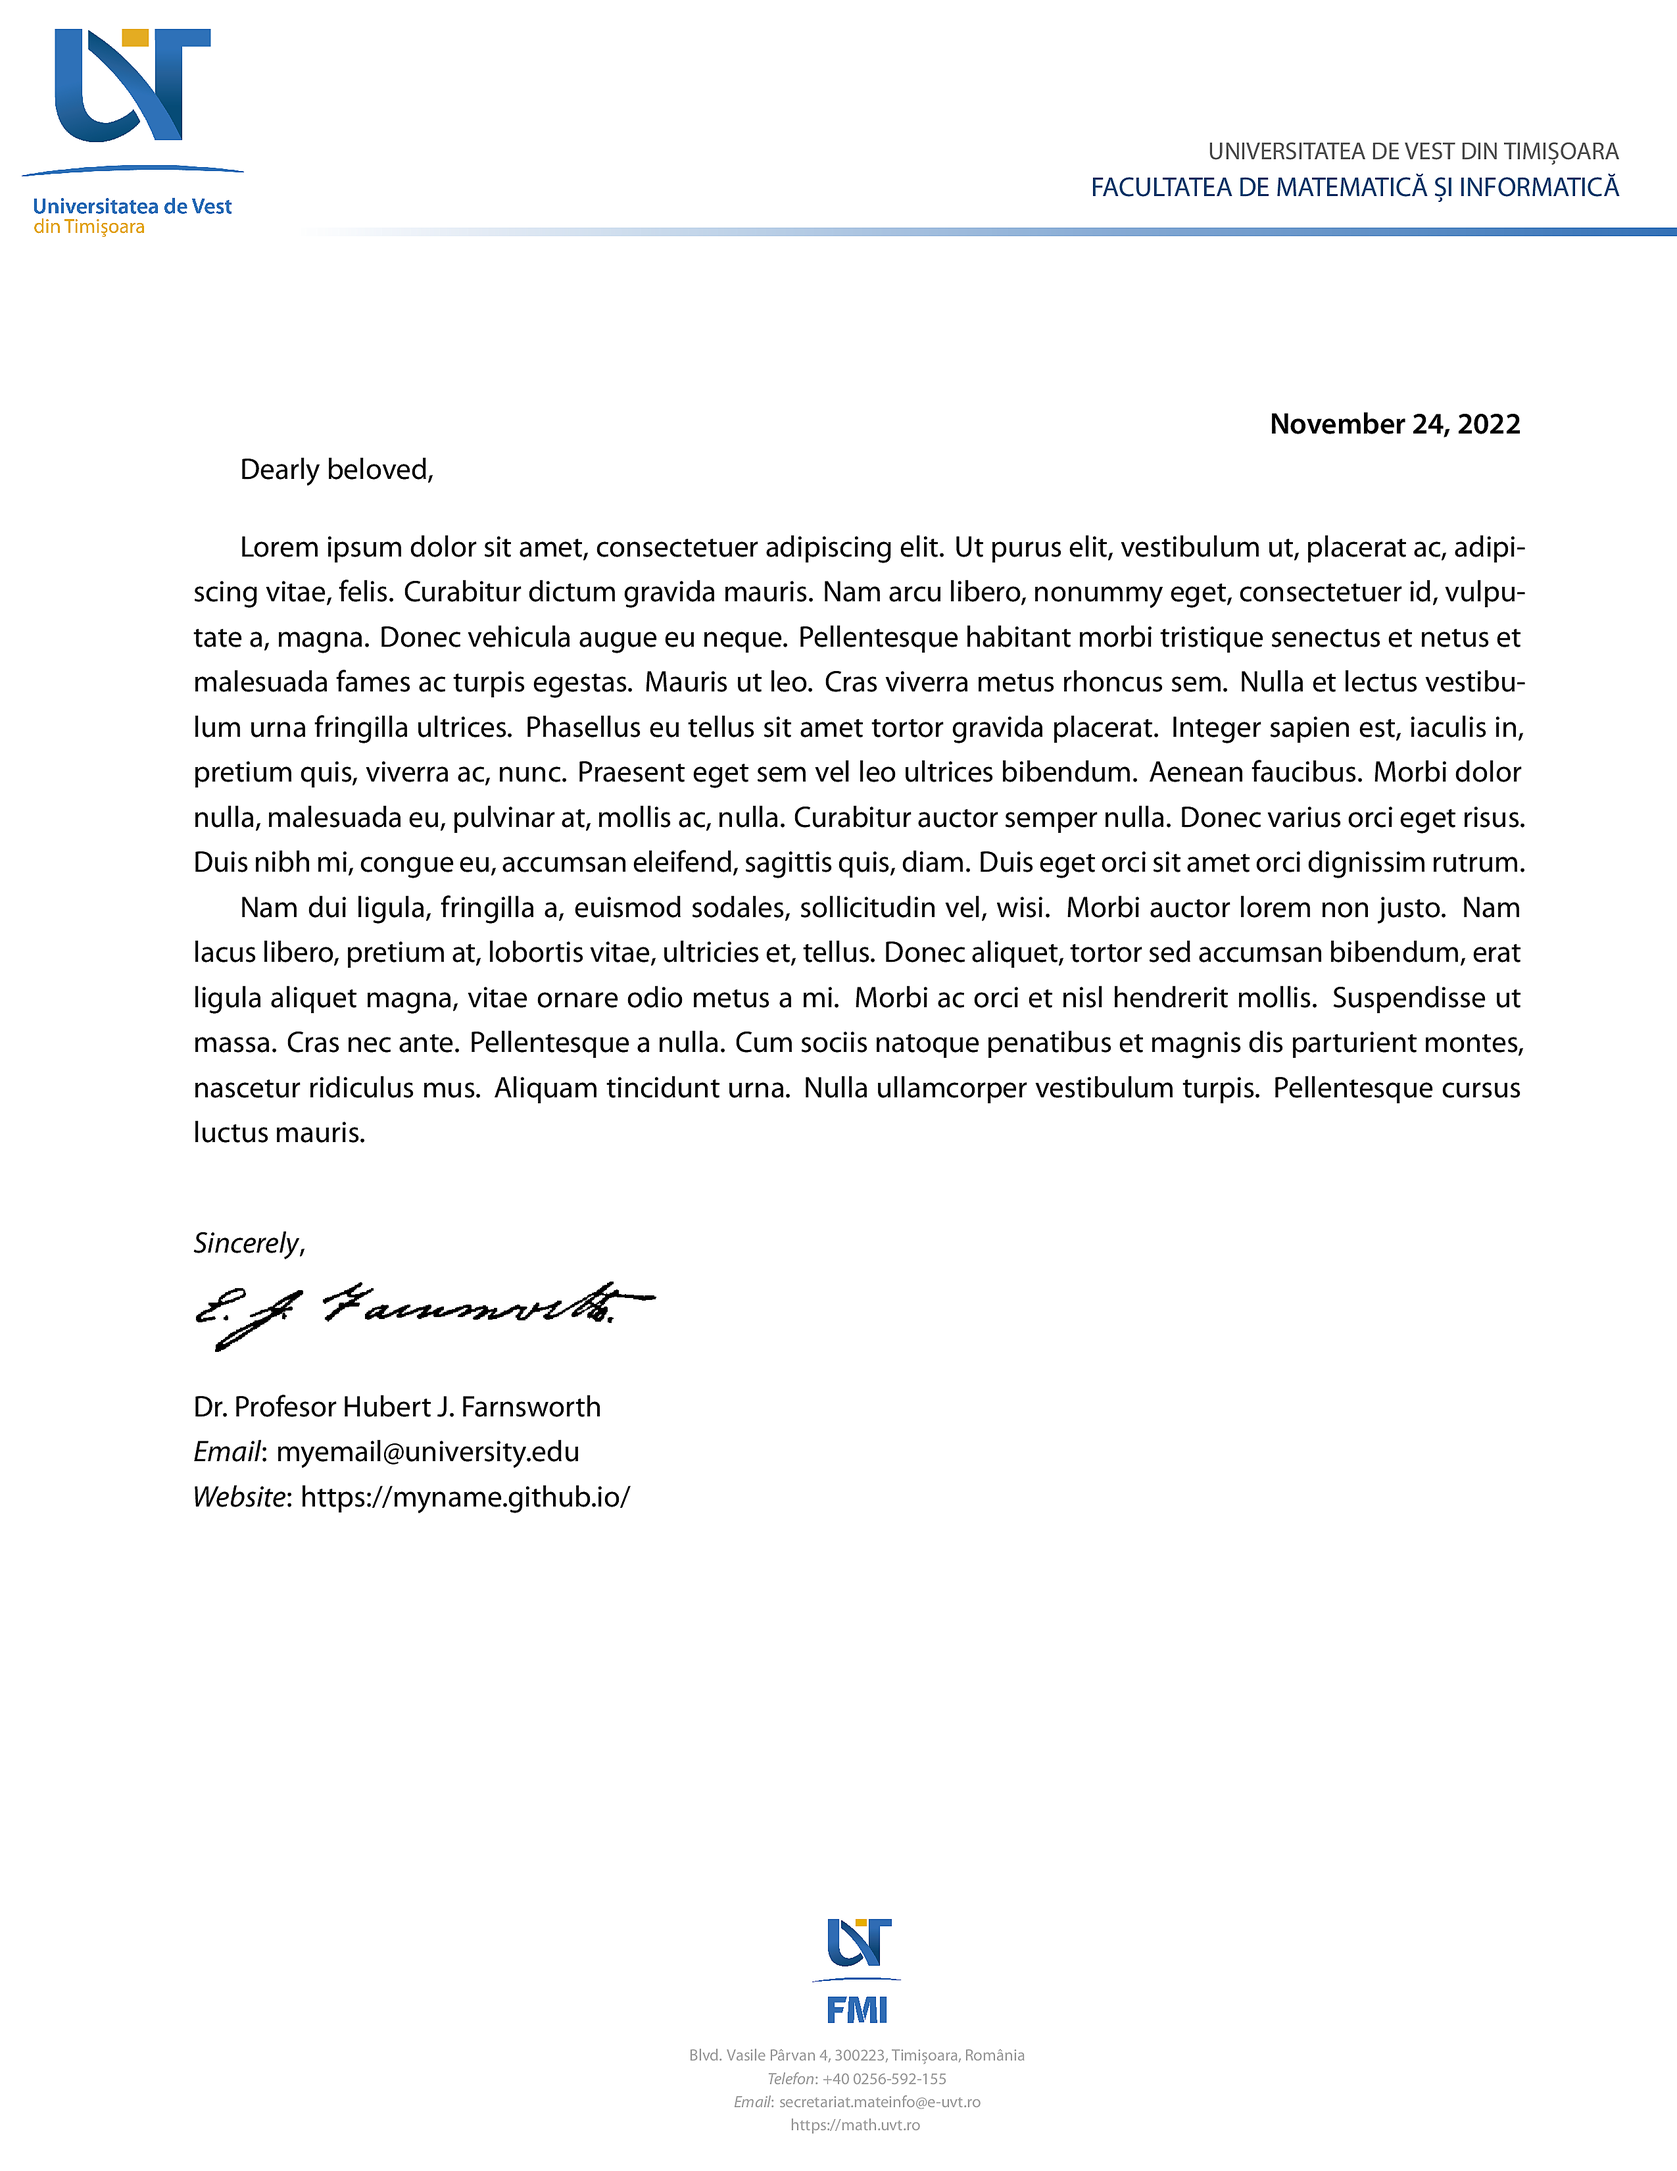
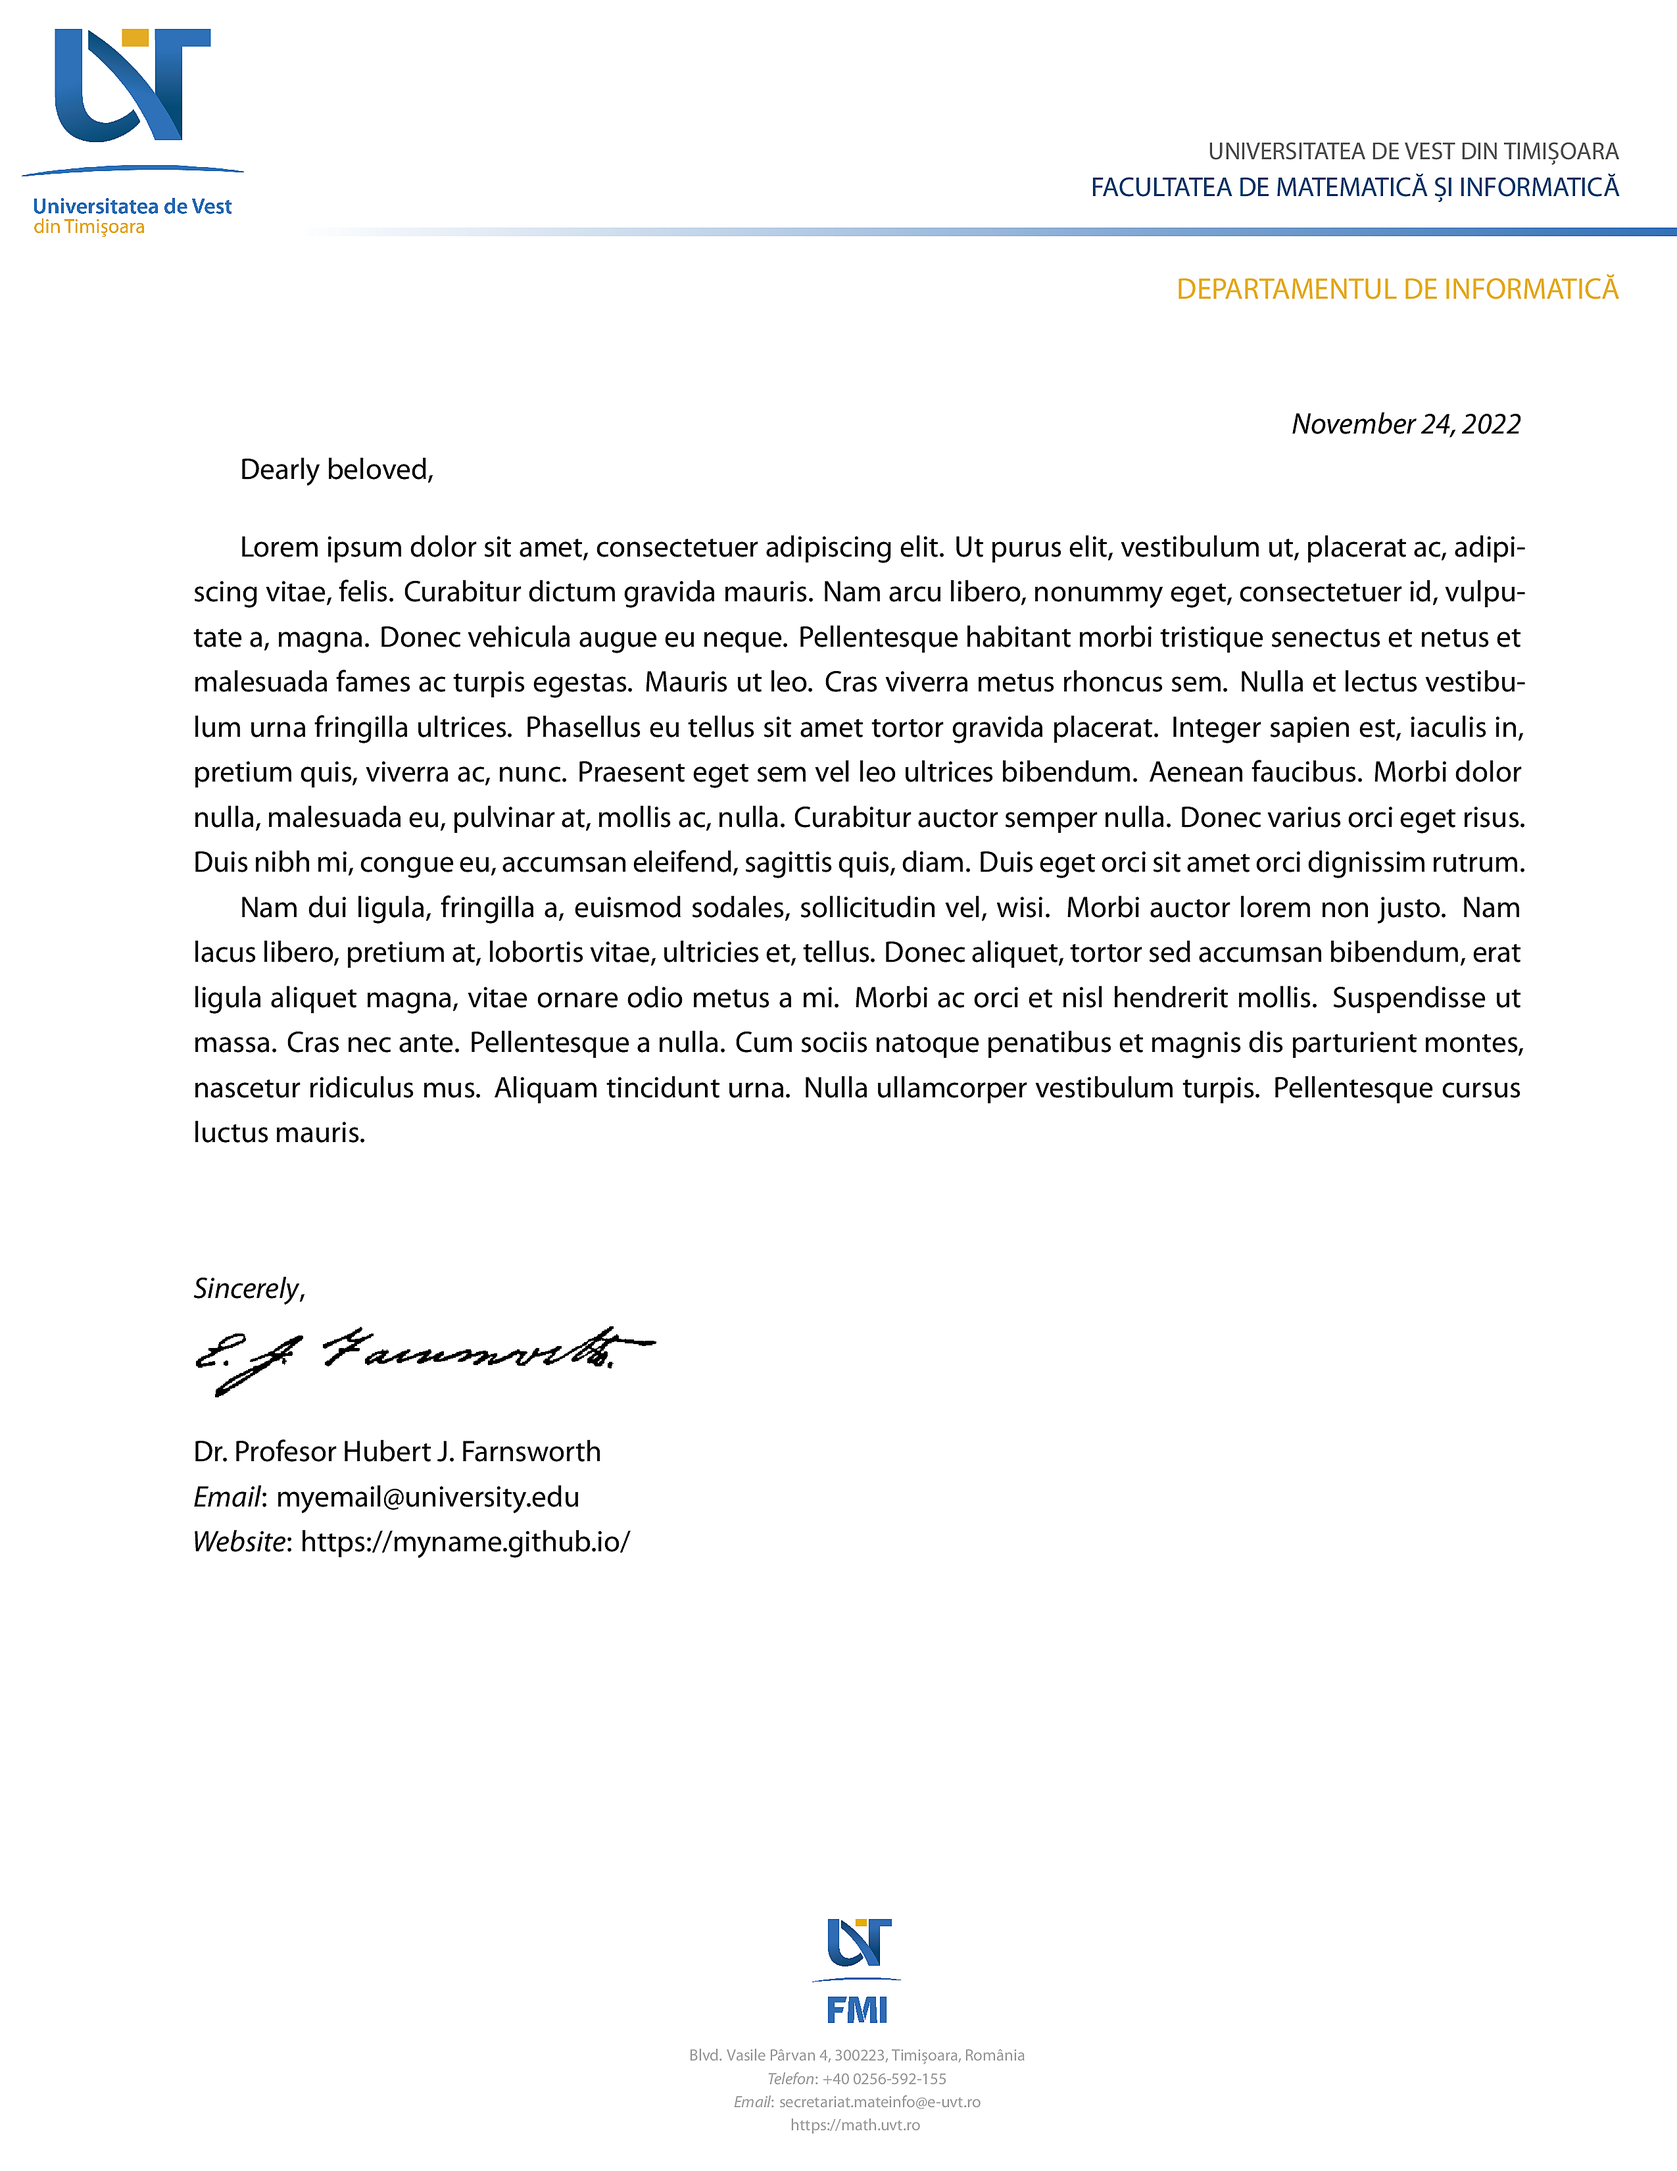
add office location

diff --git a/template.tex b/template.tex
@@ -26,6 +26,7 @@
 \fromsignature{assets/signature.png}
 \fromemail{myemail@university.edu}
 \fromweb{https://myname.github.io/}
+\fromoffice{Departamentul de Informatică}
 
 % closing address
 \closing{\textit{Sincerely}}
